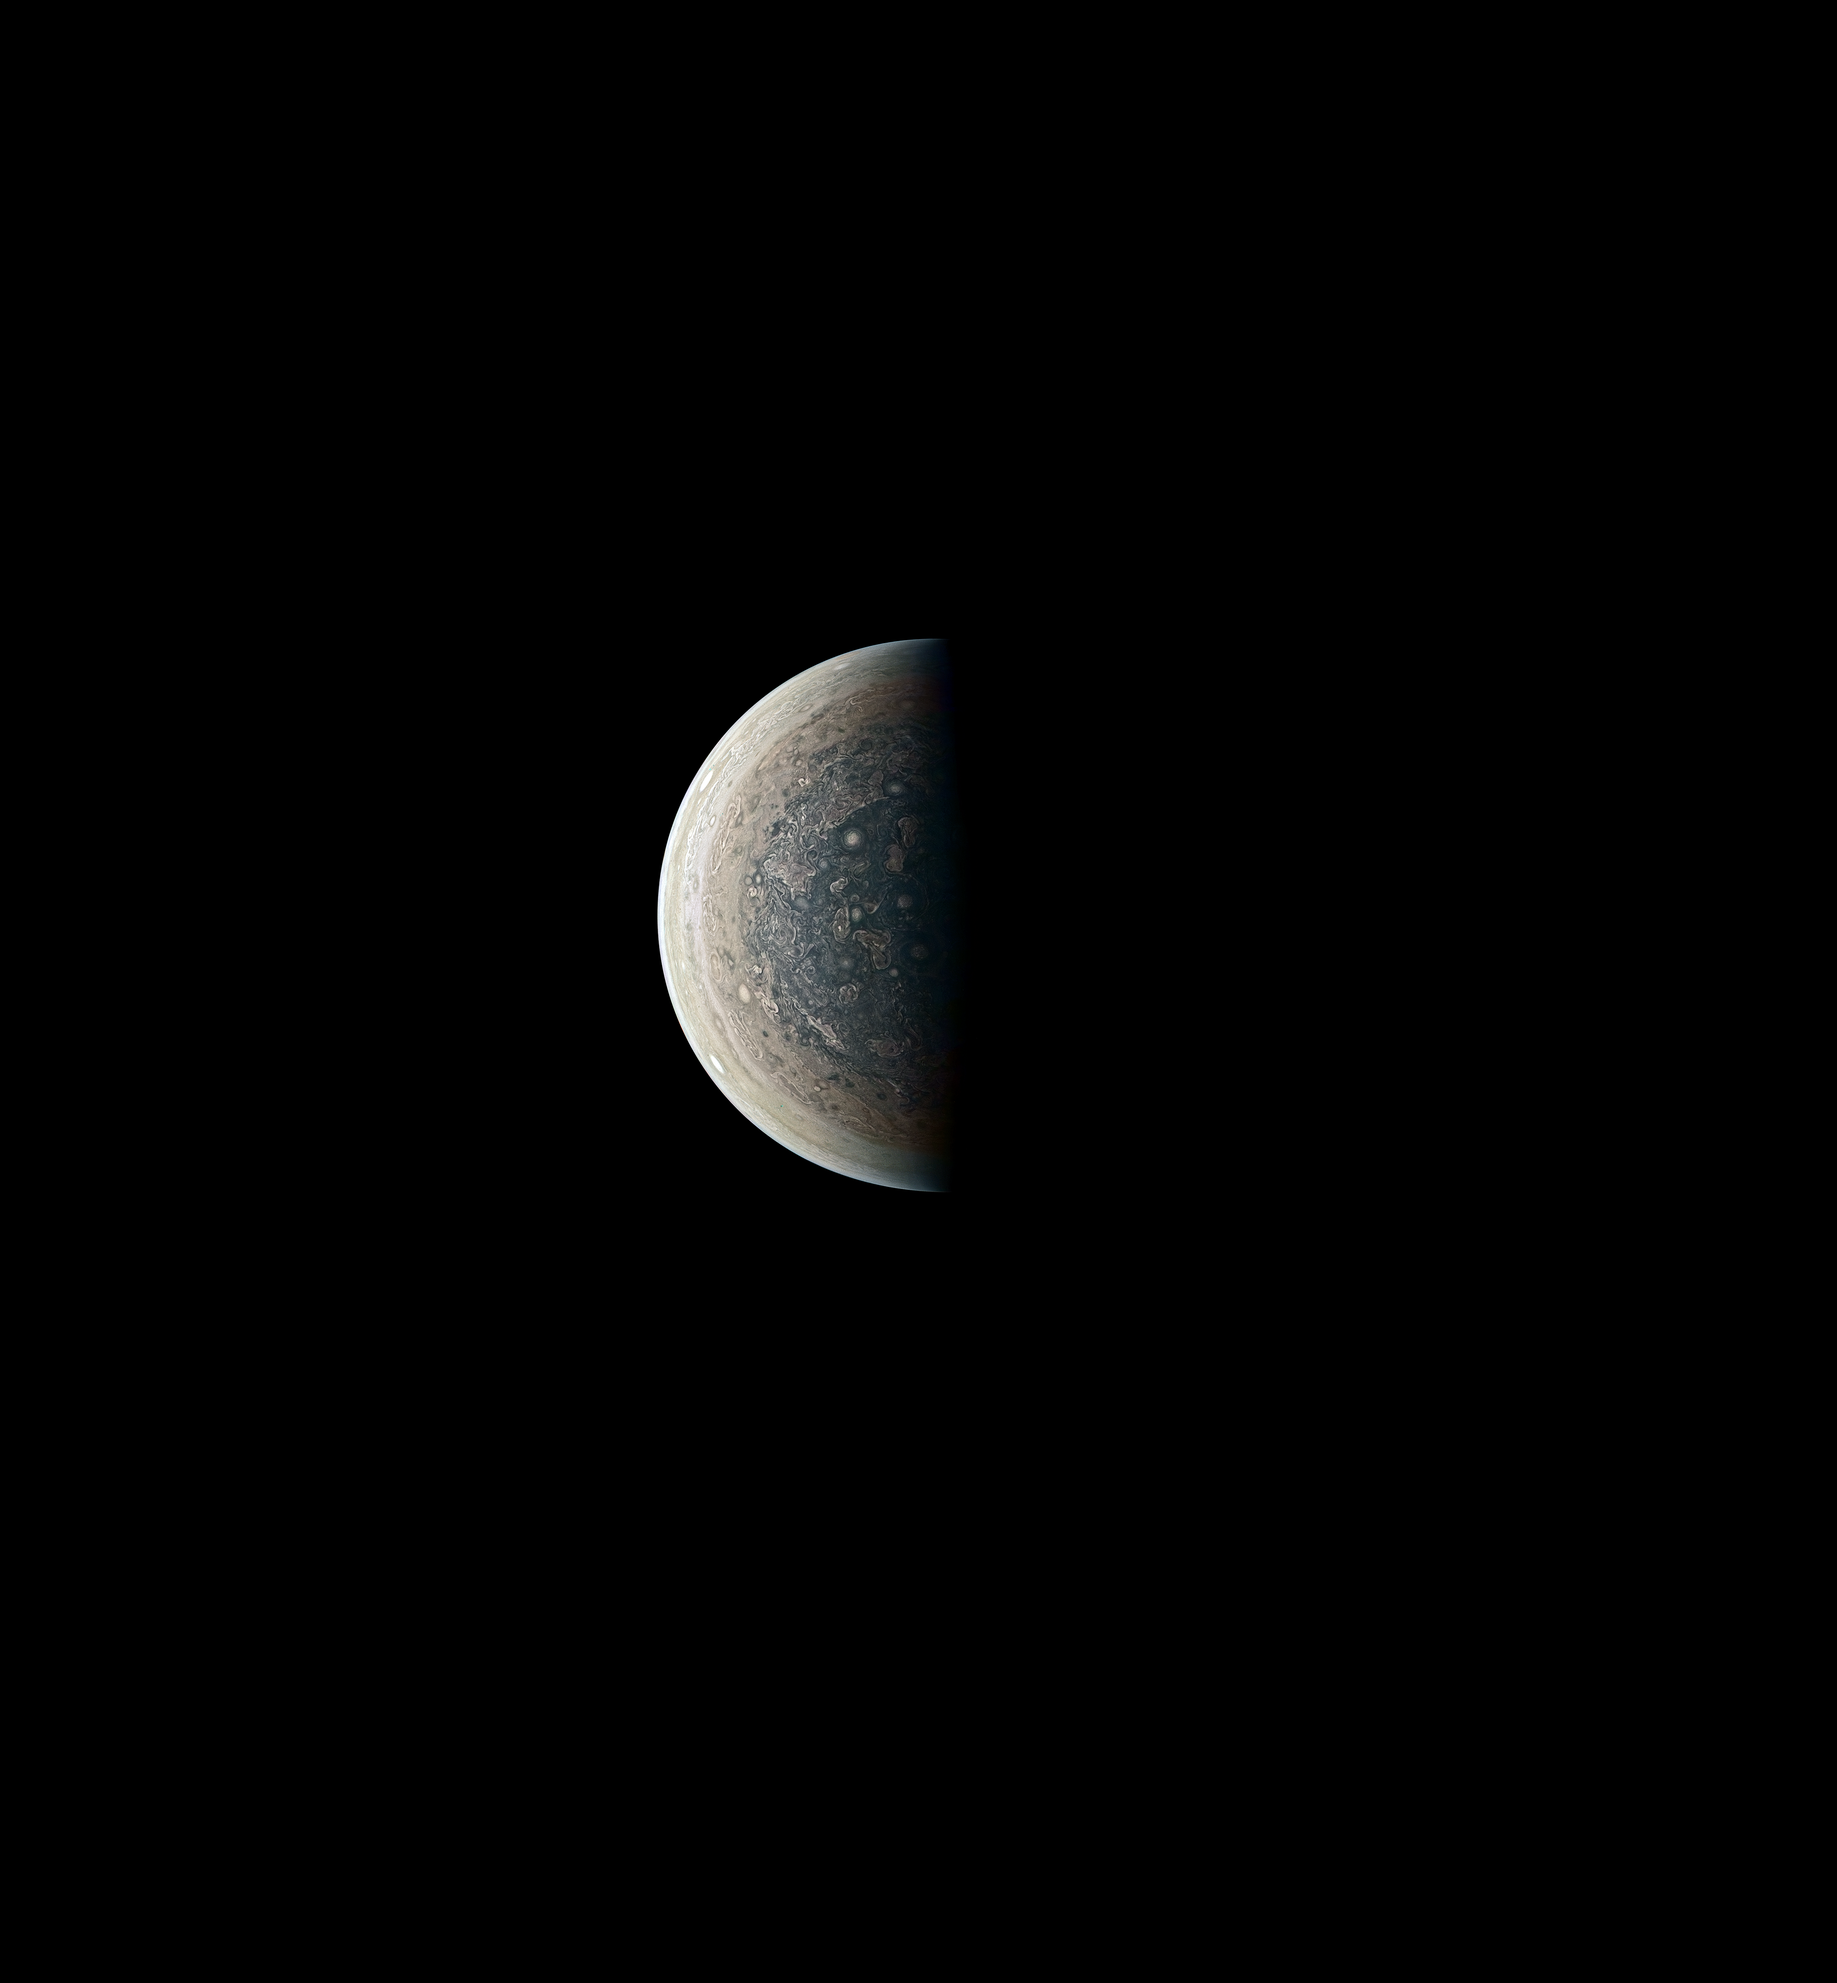
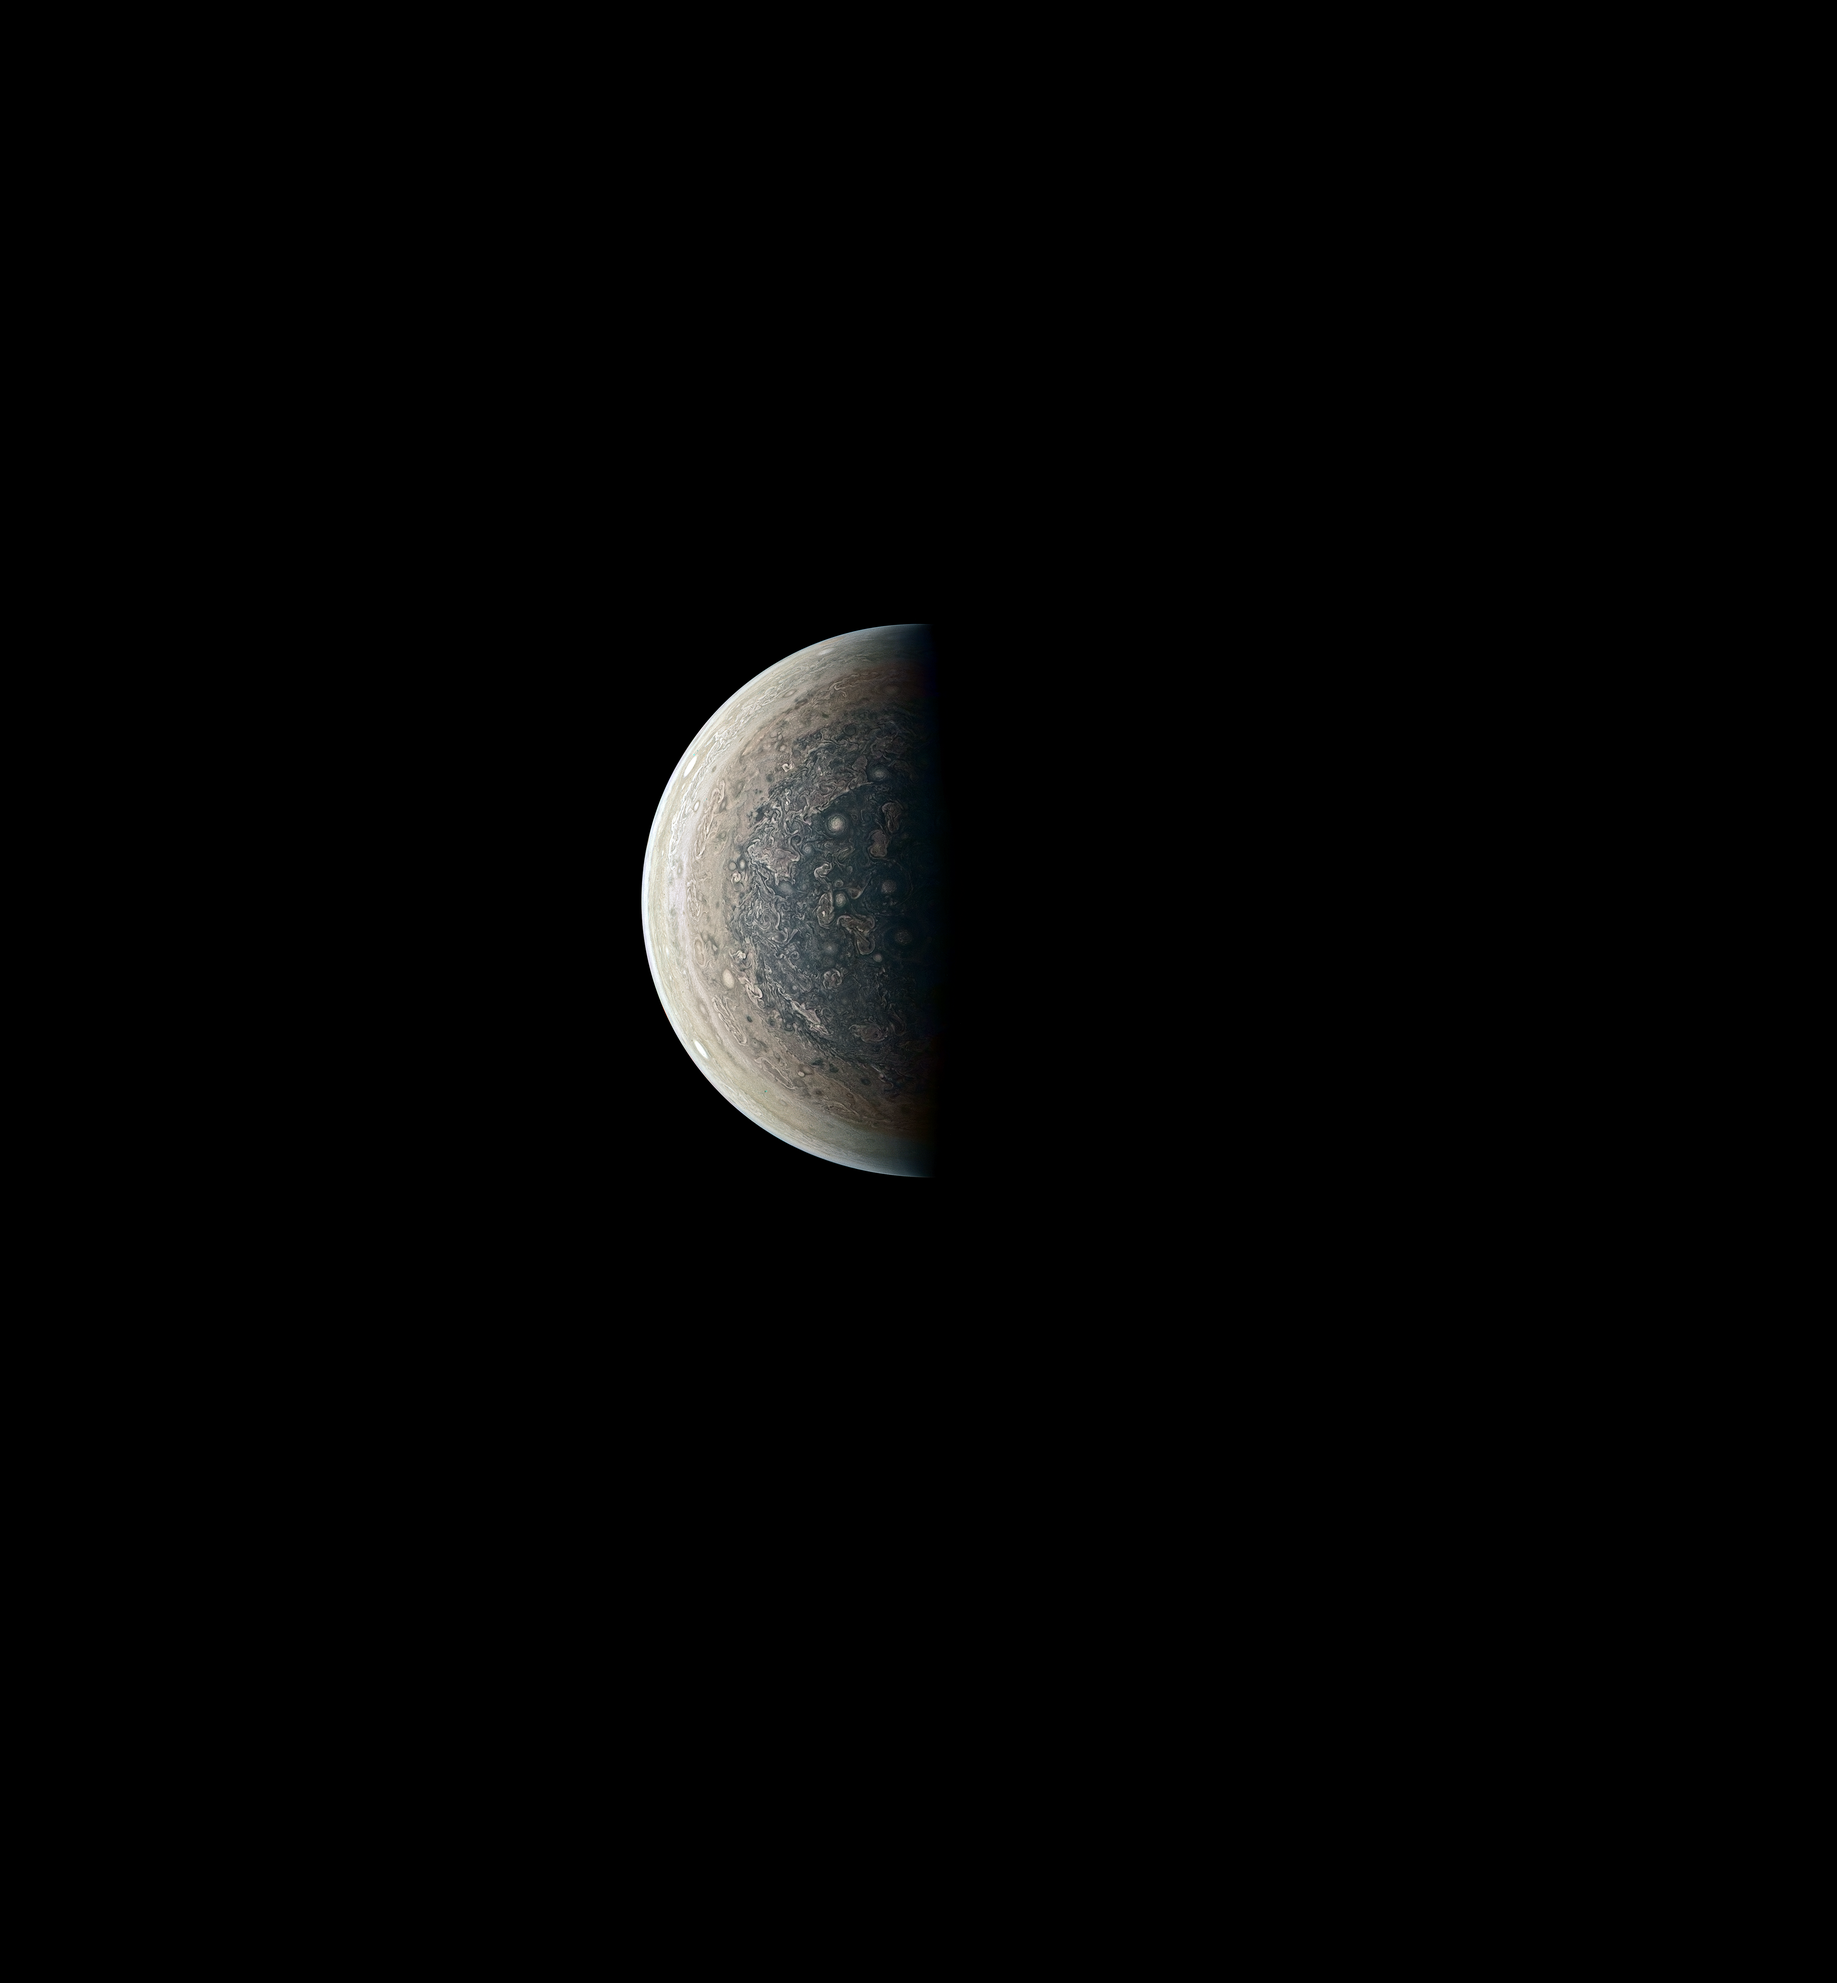
update_20200616g

Changed region(s): [[0.3425, 0.3125, 0.5292, 0.625]]

diff --git a/assets/css/main.css b/assets/css/main.css
@@ -1152,7 +1152,7 @@ input, select, textarea {
 			-webkit-transition: -webkit-transform 0.325s ease-in-out, -webkit-filter 0.325s ease-in-out;
 			-ms-transition: -ms-transform 0.325s ease-in-out, -ms-filter 0.325s ease-in-out;
 			transition: transform 0.325s ease-in-out, filter 0.325s ease-in-out;
-			background-image: url("../../images/PIA21381_edited3.jpg");/* PIA21975_edited5.jpg  PIA22949_edited2.jpg PIA23444.jpg PIA21381_edited*/
+			background-image: url("../../images/PIA21381_edited4.jpg");/* PIA21975_edited5.jpg  PIA22949_edited2.jpg PIA23444.jpg PIA21381_edited*/
 			background-position: center;
 			background-size: cover;
 			background-repeat: no-repeat;
